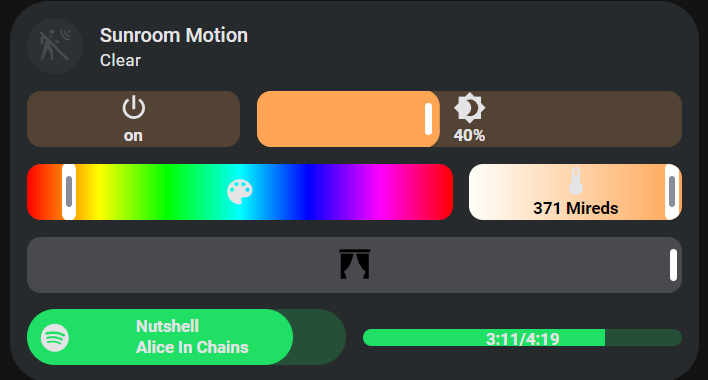
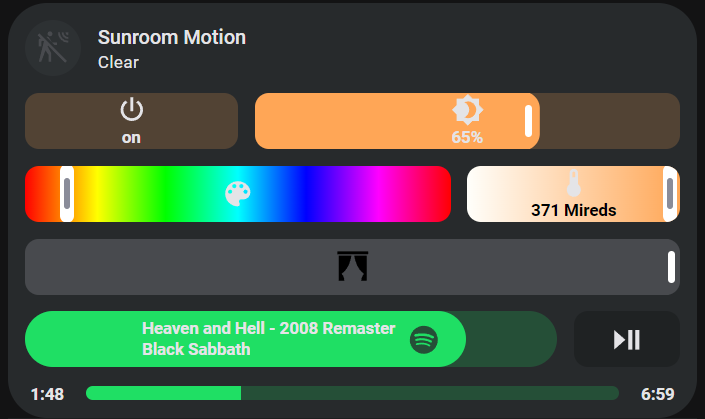
update slider tile example

diff --git a/README.md b/README.md
@@ -1122,17 +1122,17 @@ features:
   - type: custom:service-call
     entries:
       - type: slider
+        entity_id: media_player.spotify
         tap_action:
           action: call-service
           service: media_player.volume_set
           data:
             volume_level: '{{ value }}'
-            entity_id: media_player.spotify
         value_attribute: volume_level
         icon: mdi:spotify
         label: |
-          {{ state_attr("media_player.spotify", "media_title") }}
-          {{ state_attr("media_player.spotify", "media_artist") }}
+          {{ state_attr(config.entity, "media_title") }}
+          {{ state_attr(config.entity, "media_artist") }}
         range:
           - 0
           - 1
@@ -1142,11 +1142,39 @@ features:
           flex-direction: row
           border-radius: 40px
           '--tooltip-label': '{{ (value * 100) | int }}%'
+          flex-basis: 500%
         icon_style:
+          color: rgb(37, 79, 55)
           padding: 8px
           flex: auto
+          position: absolute
+          '--offset': '{{ offset }}px'
+          left: clamp(0%, calc(0.86 * ({{ offset }}px + 50%)), calc(100% - 40px))
         label_style:
           left: '-16px'
+      - type: button
+        entity_id: media_player.spotify
+        icon: mdi:play-pause
+        tap_action:
+          action: call-service
+          service: media_player.media_play_pause
+  - type: custom:service-call
+    entries:
+      - type: button
+        entity_id: media_player.spotify
+        value_attribute: media_position
+        tap_action:
+          action: call-service
+          service: media_player.media_previous_track
+        label: >-
+          {% set minutes = (value / 60) | int %} {% set seconds = (value - 60 *
+          minutes) | int %} {{ minutes }}:{{ 0 if seconds < 10 else "" }}{{
+          seconds | int }}
+        style:
+          overflow: visible
+          height: 12px
+          border-radius: 0px
+          '--color': none
       - type: slider
         tap_action:
           action: call-service
@@ -1154,31 +1182,38 @@ features:
           data:
             seek_position: '{{ value }}'
             entity_id: media_player.spotify
+        entity_id: media_player.spotify
         value_attribute: media_position
         value_from_hass_delay: 5000
         range:
           - 0
-          - '{{ state_attr("media_player.spotify", "media_duration") }}'
+          - '{{ state_attr(config.entity, "media_duration") }}'
         thumb: flat
-        label: >-
-          {{ (value / 60) | int }}:{{ 0 if (value - 60*((value / 60) | int)) < 10
-          else "" }}{{ (value - 60*((value / 60) | int)) | int }}/{{
-          (state_attr("media_player.spotify", "media_duration") / 60) |
-          int }}:{{ 0 if (state_attr("media_player.spotify",
-          "media_duration") - 60*((state_attr("media_player.spotify",
-          "media_duration") / 60) | int)) < 10 else "" }}{{
-          (state_attr("media_player.spotify", "media_duration") -
-          60*((state_attr("media_player.spotify", "media_duration") /
-          60) | int)) | int }}
         style:
           '--color': rgb(31, 223, 100)
           '--tooltip-label': >-
-            {{ (value / 60) | int }}:{{ 0 if (value - 60*((value / 60) | int)) < 10
-            else "" }}{{ (value - 60*((value / 60) | int)) | int }}
-        background_style:
+            {{ (value / 60) | int }}:{{ 0 if (value - 60*((value / 60) | int)) <
+            10 else "" }}{{ (value - 60*((value / 60) | int)) | int }}
+          flex-basis: 1200%
+          height: 10px
+      - type: button
+        entity_id: media_player.spotify
+        value_attribute: media_position
+        tap_action:
+          action: call-service
+          service: media_player.media_next_track
+        label: >-
+          {{ (state_attr(config.entity, "media_duration") / 60) | int }}:{{ 0 if
+          (state_attr(config.entity, "media_duration") -
+          60*((state_attr(config.entity, "media_duration") / 60) | int)) < 10
+          else "" }}{{ (state_attr(config.entity, "media_duration") -
+          60*((state_attr(config.entity, "media_duration") / 60) | int)) | int
+          }}
+        style:
+          overflow: visible
           height: 12px
-          border-radius: 32px
-
+          border-radius: 0px
+          '--color': none
 type: tile
 entity: binary_sensor.sun_room
 color: accent
